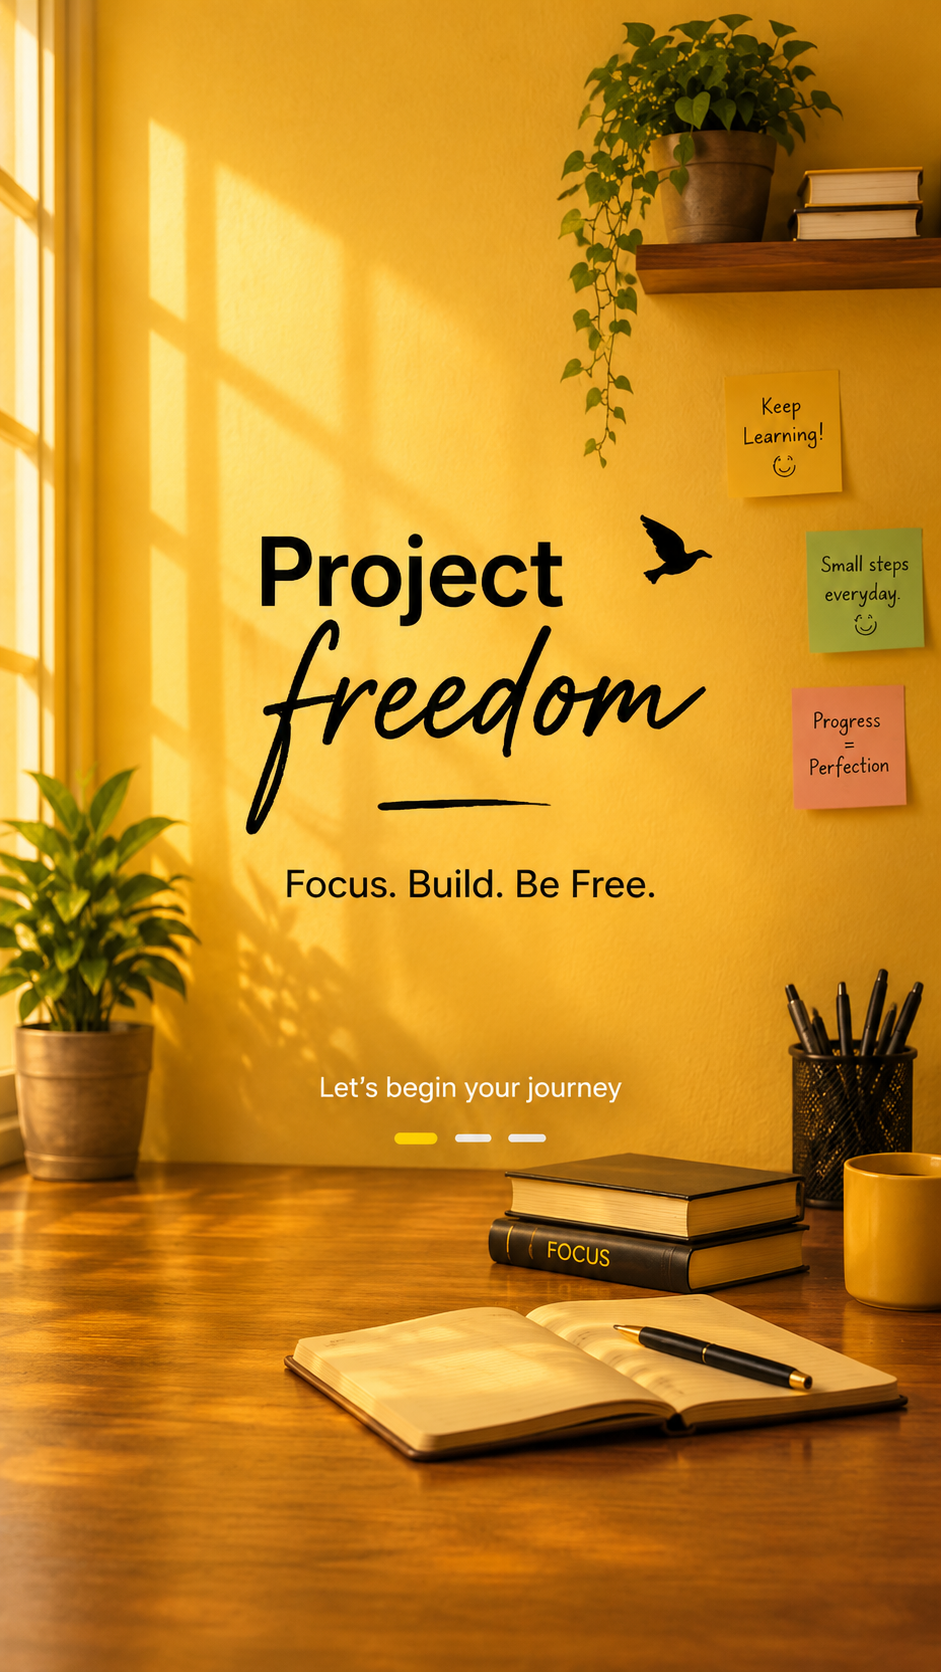
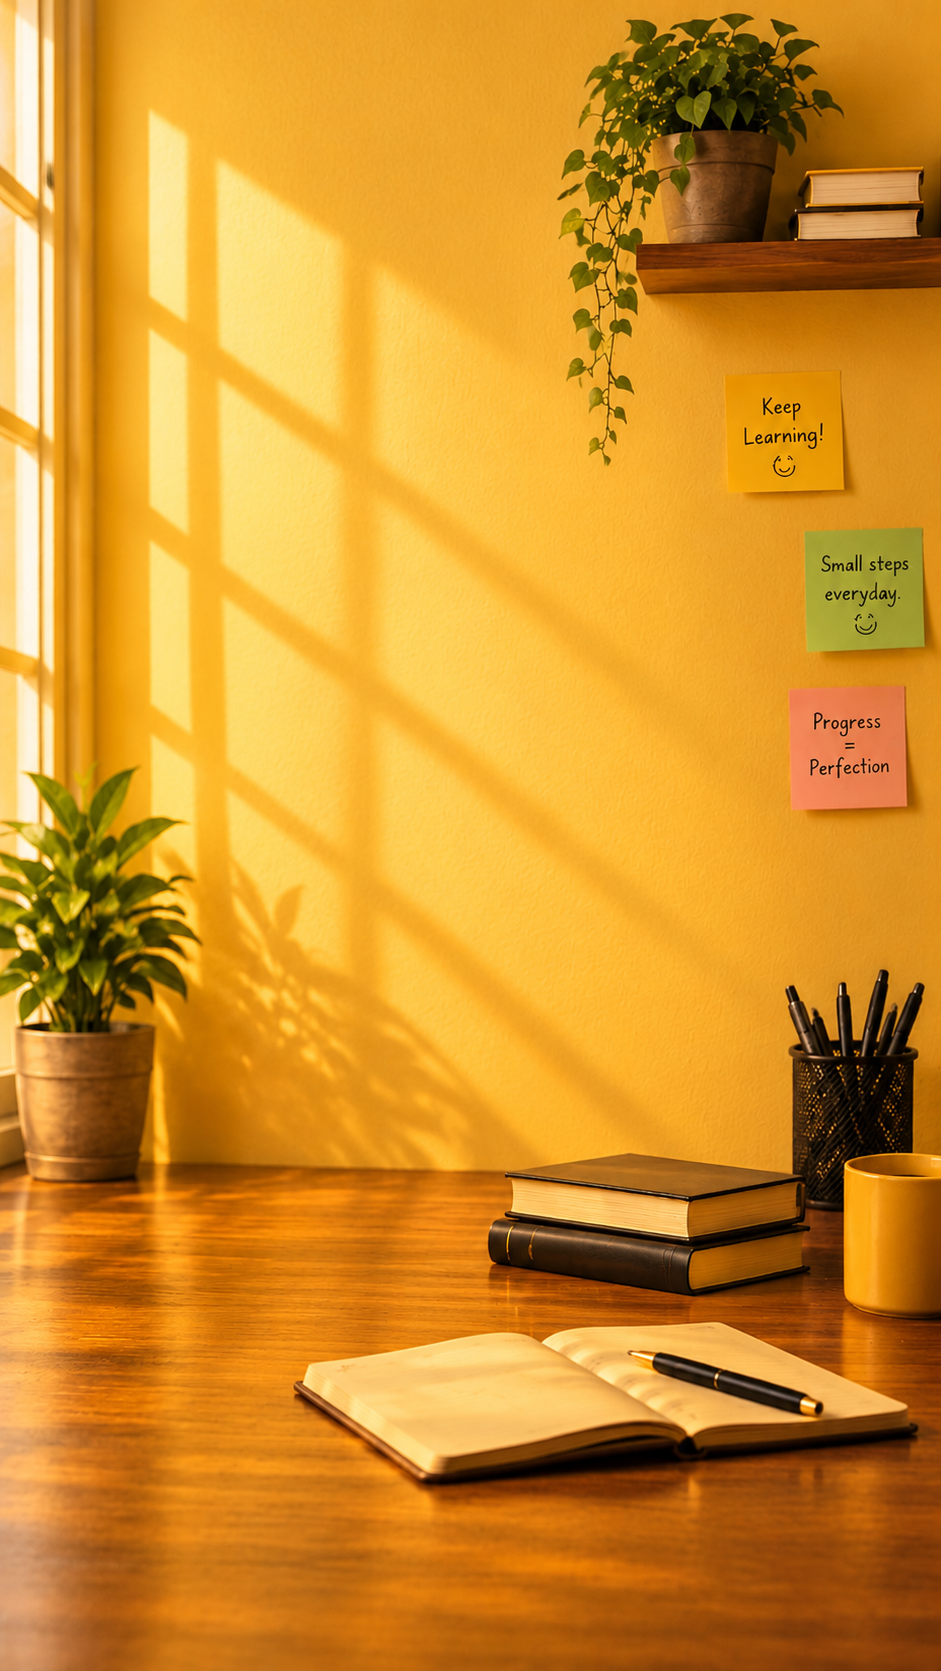
Improve UI/UX

diff --git a/src/app/page.tsx b/src/app/page.tsx
@@ -10,13 +10,6 @@ type AuthUser = {
   username: string;
 };
 
-// Sticky notes on the phone design. "rotate" is the resting tilt, "delay" when the note drops in.
-const NOTES = [
-  { text: "Keep Learning!", bg: "#FFF27A", rotate: -6, delay: 0.5, pos: "right-[7%] top-[23%] w-[120px]" },
-  { text: "Small steps everyday.", bg: "#A8E6A1", rotate: 4, delay: 0.75, pos: "right-[3%] top-[34%] w-[128px]" },
-  { text: "Progress = Perfection", bg: "#F7A8A8", rotate: -3, delay: 1, pos: "right-[8%] top-[46%] w-[120px]" },
-];
-
 // Passes a CSS custom property (e.g. --d) through React's style prop.
 const vars = (values: Record<string, string>) => values as CSSProperties;
 
@@ -178,34 +171,12 @@ export default function LandingPage() {
       {/* ============ PHONE DESIGN (below md) ============ */}
       <main className="relative h-dvh min-h-[560px] overflow-hidden text-slate-900 md:hidden">
         <img
-          src="/login-bg-mobile.svg"
+          src="/landing-page-bg-mobile.png"
           alt=""
           aria-hidden="true"
           className="absolute inset-0 h-full w-full object-cover"
         />
-
-        {/* Bird flying across once */}
-        <svg
-          className="ml-bird absolute left-[64%] top-[30%] h-7 w-9"
-          viewBox="0 0 40 28"
-          aria-hidden="true"
-        >
-          <path d="M2 14 Q12 2 20 12 Q28 2 38 14 Q28 12 20 20 Q12 12 2 14Z" fill="#1c1c1c" />
-        </svg>
-
-        {/* Sticky notes */}
-        {NOTES.map((note) => (
-          <div
-            key={note.text}
-            className={`ml-note absolute ${note.pos} rounded-sm p-3 text-center text-[13px] font-medium leading-snug text-slate-800 shadow-lg`}
-            style={vars({ backgroundColor: note.bg, "--r": `${note.rotate}deg`, "--d": `${note.delay}s` })}
-          >
-            <span className="block">{note.text}</span>
-            <span className="block text-base" aria-hidden="true">
-              ☺
-            </span>
-          </div>
-        ))}
+        <div className="absolute inset-0 bg-black/10" aria-hidden="true" />
 
         {/* Login button, top left */}
         <header className="absolute left-5 top-5 z-20">
@@ -223,26 +194,20 @@ export default function LandingPage() {
           </button>
         </header>
 
-        {/* Title */}
+        {/* Title: both words use the same script style */}
         <section className="absolute inset-x-0 top-[27%] text-center">
-          <h2
-            className="ml-rise text-[58px] font-black leading-none tracking-tight"
-            style={vars({ "--d": "0.2s" })}
-          >
+          <p className="ml-script ml-rise text-[84px] leading-none" style={vars({ "--d": "0.2s" })}>
             Project
-          </h2>
-          <p
-            className="ml-script ml-rise -mt-3 text-[92px] leading-none"
-            style={vars({ "--d": "0.5s" })}
-          >
+          </p>
+          <p className="ml-script ml-rise -mt-4 text-[84px] leading-none" style={vars({ "--d": "0.4s" })}>
             freedom
           </p>
           <div
-            className="ml-rise mx-auto mt-1 h-1.5 w-40 rounded-full bg-slate-900"
-            style={vars({ "--d": "0.8s" })}
+            className="ml-rise mx-auto mt-2 h-1.5 w-40 rounded-full bg-slate-900"
+            style={vars({ "--d": "0.6s" })}
             aria-hidden="true"
           />
-          <p className="ml-rise mt-5 text-lg font-semibold" style={vars({ "--d": "1s" })}>
+          <p className="ml-rise mt-5 font-serif text-xl italic tracking-wide" style={vars({ "--d": "0.8s" })}>
             Focus. Build. Be Free.
           </p>
         </section>
@@ -250,8 +215,8 @@ export default function LandingPage() {
         {/* Invitation and progress dots */}
         <div className="absolute inset-x-0 top-[66%] flex flex-col items-center gap-3">
           <p
-            className="ml-rise text-base font-medium text-white drop-shadow-[0_1px_3px_rgba(0,0,0,0.35)]"
-            style={vars({ "--d": "1.3s" })}
+            className="ml-rise font-serif text-lg italic tracking-wide text-white drop-shadow-[0_1px_3px_rgba(0,0,0,0.4)]"
+            style={vars({ "--d": "1s" })}
           >
             Let&apos;s begin your journey
           </p>
@@ -262,14 +227,15 @@ export default function LandingPage() {
           </div>
         </div>
 
-        {/* Enter button, sits on the desk */}
+        {/* Enter button. After login, radar waves pulse around it to show it is the next step. */}
         <button
           type="button"
           onClick={handleEnter}
           className="absolute bottom-10 left-1/2 z-20 flex h-14 w-14 -translate-x-1/2 items-center justify-center rounded-full bg-slate-900 text-white shadow-xl transition active:scale-95"
           aria-label={user ? "Enter Project Freedom" : "Log in to enter"}
         >
-          <ArrowRight size={24} aria-hidden="true" />
+          {user && <span aria-hidden="true" className="ml-radar absolute inset-0 rounded-full" />}
+          <ArrowRight size={24} aria-hidden="true" className="relative" />
         </button>
 
         {isAuthOpen && (

diff --git a/src/components/sidebar.tsx b/src/components/sidebar.tsx
@@ -29,7 +29,7 @@ export type SidebarLeague = {
 
 type NavItem = { label: string; href: string | null; icon: LucideIcon };
 
-// href: null means the page is not built yet, so the entry is shown but disabled.
+
 const NAV_ITEMS: NavItem[] = [
   { label: 'Home', href: '/home', icon: HomeIcon },
   { label: 'Study', href: '/study', icon: BookOpen },
@@ -47,6 +47,9 @@ type SidebarProps = {
 export function Sidebar({ league, logoutEndpoint = '/api/auth/logout' }: SidebarProps) {
   const [collapsed, setCollapsed] = useState(false); // desktop only
   const [drawerOpen, setDrawerOpen] = useState(false); // mobile only
+  // Glass look only on Habit and Journey; every other page keeps the solid yellow sidebar.
+  const pathname = usePathname();
+  const glass = pathname.startsWith('/habit') || pathname.startsWith('/journey');
 
   // Escape closes the mobile drawer.
   useEffect(() => {
@@ -64,7 +67,7 @@ export function Sidebar({ league, logoutEndpoint = '/api/auth/logout' }: Sidebar
         onClick={() => setDrawerOpen(true)}
         aria-label="Open menu"
         aria-expanded={drawerOpen}
-        className="fixed left-3 top-3 z-40 flex h-10 w-10 items-center justify-center rounded-xl border border-amber-400 bg-[#FCD84A] text-amber-950 shadow-md md:hidden"
+        className={`fixed left-3 top-3 z-40 flex h-10 w-10 items-center justify-center rounded-xl text-amber-950 shadow-md md:hidden ${glass ? 'border border-white/50 bg-white/40 backdrop-blur-md dark:border-amber-800 dark:bg-[#2a2308] dark:text-amber-100' : 'border border-amber-400 bg-[#FCD84A]'}`}
       >
         <Menu size={20} aria-hidden="true" />
       </button>
@@ -77,7 +80,7 @@ export function Sidebar({ league, logoutEndpoint = '/api/auth/logout' }: Sidebar
             onClick={() => setDrawerOpen(false)}
             className="absolute inset-0 bg-black/40"
           />
-          <aside className="relative flex h-full w-72 max-w-[85vw] flex-col bg-[#FCD84A] p-4 shadow-2xl dark:bg-[#2a2308] overflow-y-auto ">
+          <aside className={`relative flex h-full w-72 max-w-[85vw] flex-col p-4 shadow-2xl overflow-y-auto ${glass ? 'border-r border-white/50 bg-white/50 backdrop-blur-xl dark:border-amber-900/60 dark:bg-[#2a2308]' : 'bg-[#FCD84A] dark:bg-[#2a2308]'}`}>
             <div className="mb-2 flex justify-end">
               <button
                 type="button"
@@ -95,7 +98,7 @@ export function Sidebar({ league, logoutEndpoint = '/api/auth/logout' }: Sidebar
 
       {/* Desktop: full-height sidebar that collapses to icons plus the compact league badge. */}
       <aside
-        className={`hidden h-full shrink-0 flex-col overflow-y-auto no-scrollbar border-r border-amber-500/40 bg-[#FCD84A] p-3 transition-[width] duration-300 md:flex dark:border-amber-900/60 dark:bg-[#2a2308] ${
+        className={`hidden h-full shrink-0 flex-col overflow-y-auto no-scrollbar p-3 transition-[width] duration-300 md:flex ${glass ? 'relative z-10 border-r border-white/50 bg-white/30 backdrop-blur-xl dark:border-amber-900/60 dark:bg-[#2a2308]' : 'border-r border-amber-500/40 bg-[#FCD84A] dark:border-amber-900/60 dark:bg-[#2a2308]'} ${
           collapsed ? 'w-20' : 'w-64'
         }`}
       >

diff --git a/src/app/mobile-login.css b/src/app/mobile-login.css
@@ -1,41 +1,8 @@
-/* Script font for the "freedom" title (Google Fonts). */
+/* Script font for "Project" and "freedom" (Google Fonts). */
 @import url("https://fonts.googleapis.com/css2?family=Caveat:wght@700&display=swap");
 
 .ml-script {
   font-family: "Caveat", cursive;
-}
-
-/* Sticky notes drop in one after another, then wiggle a few times and settle. */
-.ml-note {
-  transform-origin: top center;
-  animation:
-    ml-drop 0.9s cubic-bezier(0.2, 0.8, 0.3, 1) var(--d, 0s) both,
-    ml-wiggle 1.2s ease-in-out calc(var(--d, 0s) + 0.9s) 3 forwards;
-}
-
-@keyframes ml-drop {
-  0% {
-    opacity: 0;
-    transform: translateY(-60px) rotate(calc(var(--r) - 14deg));
-  }
-  65% {
-    opacity: 1;
-    transform: translateY(8px) rotate(calc(var(--r) + 3deg));
-  }
-  100% {
-    opacity: 1;
-    transform: translateY(0) rotate(var(--r));
-  }
-}
-
-@keyframes ml-wiggle {
-  0%,
-  100% {
-    transform: rotate(var(--r));
-  }
-  50% {
-    transform: rotate(calc(var(--r) + 2.5deg));
-  }
 }
 
 /* Title and text fade up in sequence. */
@@ -51,25 +18,6 @@
   to {
     opacity: 1;
     transform: translateY(0);
-  }
-}
-
-/* A bird flies across once, near the title. */
-.ml-bird {
-  animation: ml-fly 4.5s ease-in-out 0.6s both;
-}
-
-@keyframes ml-fly {
-  from {
-    transform: translate(-90px, 30px);
-    opacity: 0;
-  }
-  15% {
-    opacity: 1;
-  }
-  to {
-    transform: translate(60px, -20px);
-    opacity: 1;
   }
 }
 
@@ -89,11 +37,37 @@
   }
 }
 
+/* Radar waves around the Enter button, shown after login. Two rings, offset in time. */
+.ml-radar::before,
+.ml-radar::after {
+  content: "";
+  position: absolute;
+  inset: 0;
+  border-radius: inherit;
+  border: 2px solid rgba(15, 23, 42, 0.6);
+  animation: ml-radar 2s ease-out infinite;
+}
+
+.ml-radar::after {
+  animation-delay: 1s;
+}
+
+@keyframes ml-radar {
+  from {
+    transform: scale(1);
+    opacity: 0.9;
+  }
+  to {
+    transform: scale(2.2);
+    opacity: 0;
+  }
+}
+
 @media (prefers-reduced-motion: reduce) {
-  .ml-note,
   .ml-rise,
-  .ml-bird,
-  .ml-sheet {
+  .ml-sheet,
+  .ml-radar::before,
+  .ml-radar::after {
     animation: none !important;
   }
 }

diff --git a/src/app/(app)/habit/components/HabitTab.tsx b/src/app/(app)/habit/components/HabitTab.tsx
@@ -164,21 +164,21 @@ export default function HabitTab() {
   const go = (delta: number) => setIndex(Math.min(Math.max(safeIndex + delta, 0), Math.max(count - 1, 0)));
 
   return (
-    <div className="relative flex min-h-0 flex-1 select-none overflow-hidden bg-[#FDE9A6] text-emerald-950 dark:bg-[#1c1708] dark:text-amber-50">
+    <div className="relative flex min-h-0 flex-1 select-none overflow-hidden text-emerald-950 dark:bg-[#1c1708] dark:text-amber-50">
       {/* Background image: light mode only. Dark mode keeps the amber theme. */}
       <img
         src="/habit.png"
         alt=""
-        className="absolute inset-0 hidden h-full w-full object-cover dark:hidden md:block"
+        className="fixed inset-0 z-0 hidden h-full w-full object-cover dark:hidden md:block"
       />
       <img
         src="/habit-mobile.png"
         alt=""
-        className="absolute inset-0 block h-full w-full object-cover dark:hidden md:hidden"
+        className="fixed inset-0 z-0 block h-full w-full object-cover dark:hidden md:hidden"
       />
 
       {/* Top-right controls: always visible, so the eye can bring the background back */}
-      <div className="absolute right-4 top-4 z-50 flex items-center gap-2">
+      <div className="fixed right-3 top-3 z-30 flex items-center gap-2">
         <IconButton label="Manage habits" onClick={() => setSettingsOpen(true)}>
           <Settings className="h-5 w-5" />
         </IconButton>
@@ -192,7 +192,7 @@ export default function HabitTab() {
       </div>
 
       {showUI && (
-        <div className="relative z-10 flex h-full min-h-0 w-full flex-col gap-4 bg-black/25 p-4 pt-16 md:p-8 md:pt-8 dark:bg-black/35">
+        <div className="relative z-10 flex h-full min-h-0 w-full flex-col gap-4 bg-black/25 p-4 md:p-8 md:pt-20 dark:bg-black/35">
           {/* Month navigation */}
           <header className="mx-auto flex w-full max-w-4xl items-center justify-between gap-3 rounded-2xl border border-white/10 bg-black/60 px-3 py-2.5 shadow-2xl backdrop-blur-md md:px-6 md:py-3">
             <IconButton label="Previous month" onClick={() => setMonthKey(shiftMonth(monthKey, -1))}>

diff --git a/src/app/(app)/journey/components/JourneyTab.tsx b/src/app/(app)/journey/components/JourneyTab.tsx
@@ -96,21 +96,21 @@ export default function JourneyTab() {
   }
 
   return (
-    <div className="relative flex min-h-0 flex-1 select-none overflow-hidden bg-[#FDE9A6] text-slate-900 dark:bg-slate-900 dark:text-white">
+    <div className="relative flex min-h-0 flex-1 select-none overflow-hidden text-slate-900 dark:bg-slate-900 dark:text-white">
       {/* Background image: light mode only. Dark mode keeps the plain theme. */}
       <img
         src="/journey.png"
         alt=""
-        className="absolute inset-0 hidden h-full w-full object-cover dark:hidden md:block"
+        className="fixed inset-0 z-0 hidden h-full w-full object-cover dark:hidden md:block"
       />
       <img
         src="/journey-mobile.png"
         alt=""
-        className="absolute inset-0 block h-full w-full object-cover dark:hidden md:hidden"
+        className="fixed inset-0 z-0 block h-full w-full object-cover dark:hidden md:hidden"
       />
 
       {/* Eye toggle: always visible, so the background can be seen */}
-      <div className="absolute right-4 top-4 z-50">
+      <div className="fixed right-3 top-3 z-30">
         <button
           type="button"
           aria-label={showUI ? 'Hide interface' : 'Show interface'}
@@ -125,7 +125,7 @@ export default function JourneyTab() {
       </div>
 
       {showUI && (
-        <div className="relative z-10 h-full w-full overflow-y-auto bg-black/10 p-4 pt-16 md:p-8 md:pt-8 dark:bg-black/30">
+        <div className="relative z-10 h-full w-full overflow-y-auto bg-black/10 p-4 md:p-8 md:pt-20 dark:bg-black/30">
           <div className="mx-auto max-w-4xl space-y-8">
             <CreateJourneyForm onCreate={createJourney} />
 

diff --git a/src/app/(app)/journey/components/CreateJourneyForm.tsx b/src/app/(app)/journey/components/CreateJourneyForm.tsx
@@ -29,7 +29,7 @@ export function CreateJourneyForm({ onCreate }: CreateJourneyFormProps) {
   }
 
   return (
-    <section className="rounded-3xl border-4 border-slate-900 bg-white p-5 shadow-[6px_6px_0px_rgba(15,23,42,1)] dark:border-slate-600 dark:bg-slate-800 dark:shadow-[6px_6px_0px_rgba(255,255,255,0.12)]">
+    <section className="rounded-3xl border-4 border-slate-900 bg-white/45 p-5 backdrop-blur-md shadow-[6px_6px_0px_rgba(15,23,42,1)] dark:border-slate-600 dark:bg-slate-800 dark:shadow-[6px_6px_0px_rgba(255,255,255,0.12)]">
       <h2 className="mb-5 flex items-center gap-2 text-lg font-black uppercase tracking-tight text-slate-900 dark:text-white">
         <MapIcon className="h-7 w-7 text-rose-500" strokeWidth={3} aria-hidden="true" />
         Start a New Adventure!
